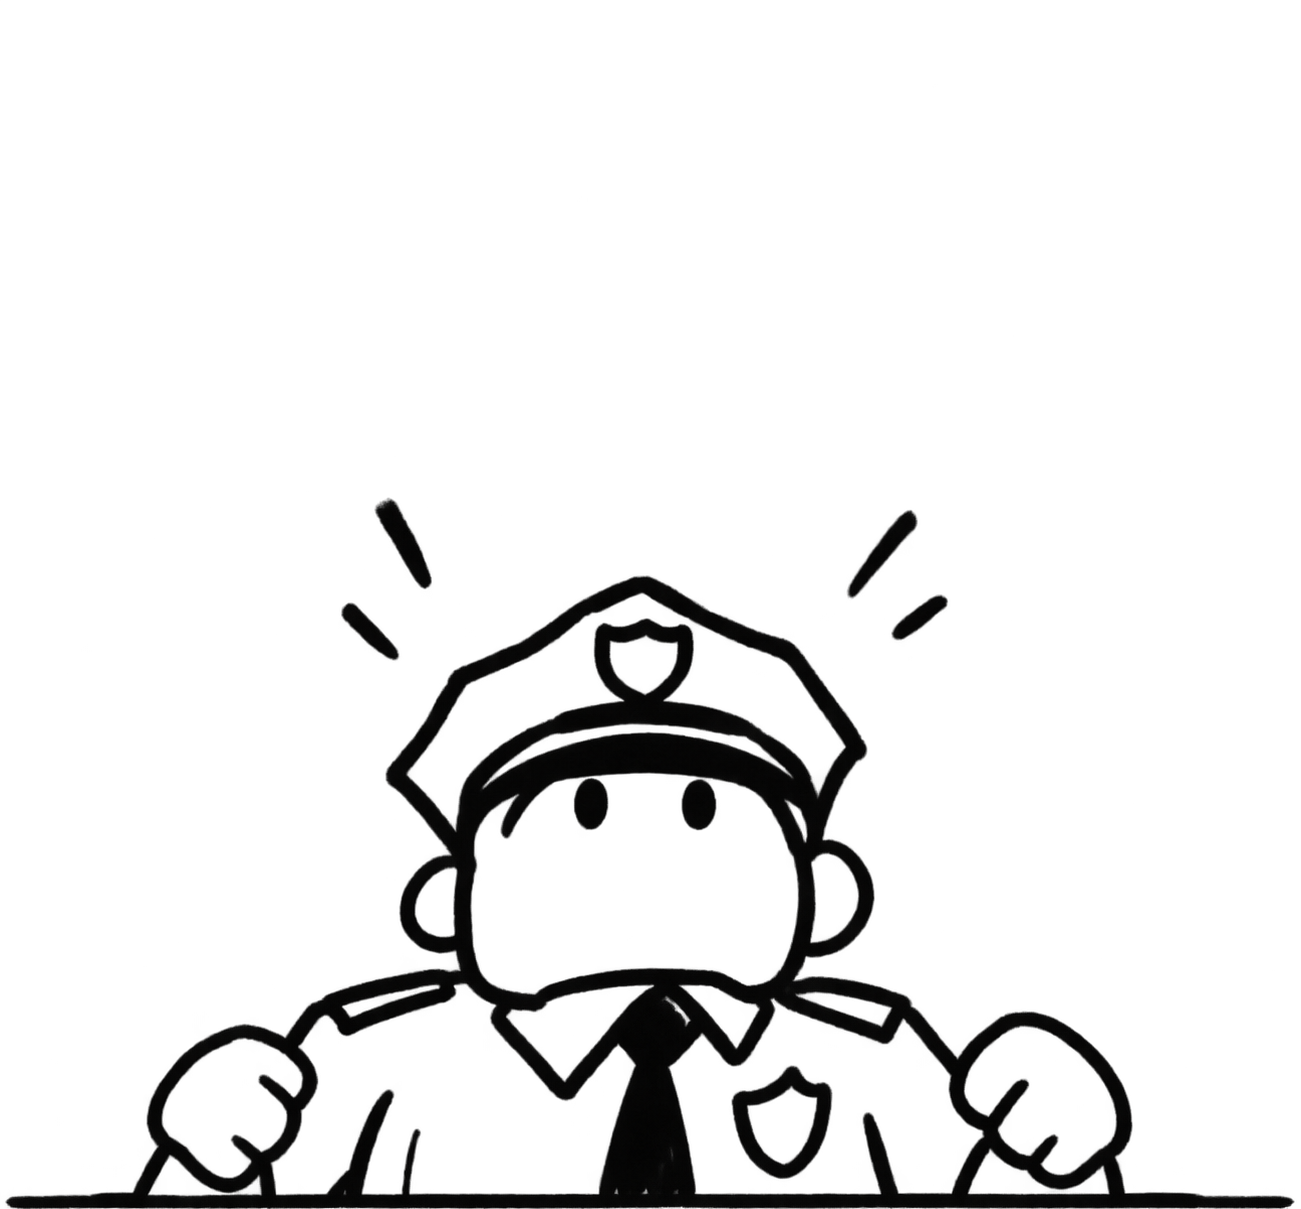
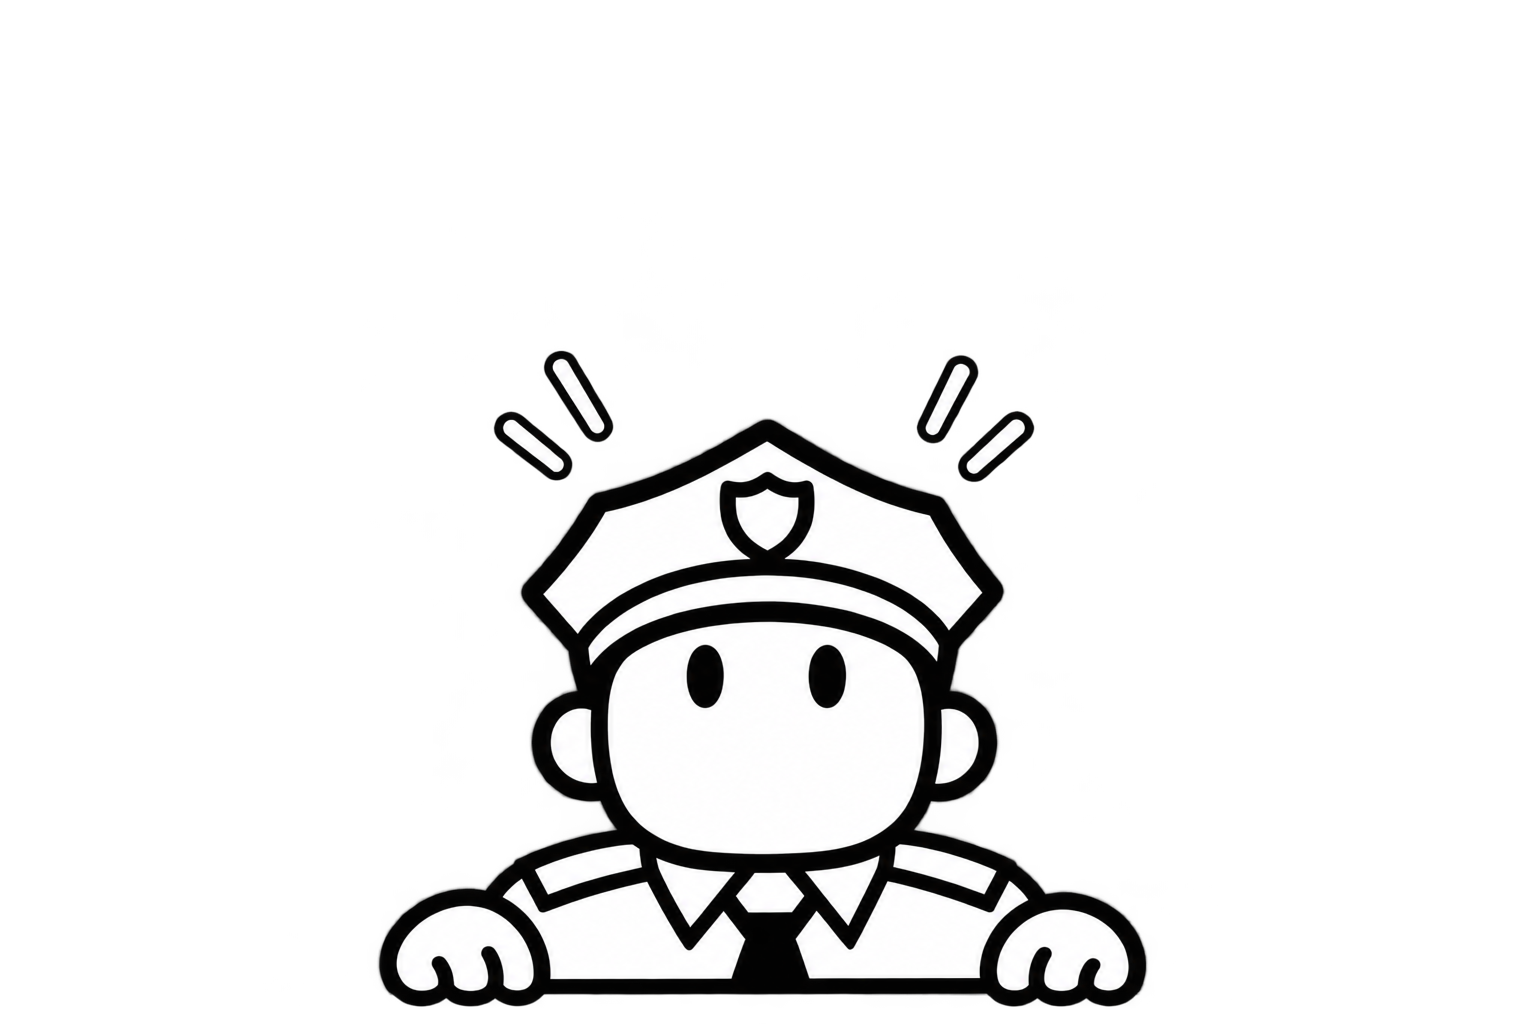
Images change

diff --git a/ai_chrome/animation/canvas.js b/ai_chrome/animation/canvas.js
@@ -6,9 +6,9 @@ canvas.hidden = true;
 
 const sprites = Object.fromEntries(
     Object.entries({
-        peek: "beek.png",
+        peek: "beek2.png",
         half: "half.png",
-        ready: "cop-ready.png",
+        ready: "jump.png",
         going: "cop2.png",
         pulling: "pulling2.png",
         tired: "tired2.png",
